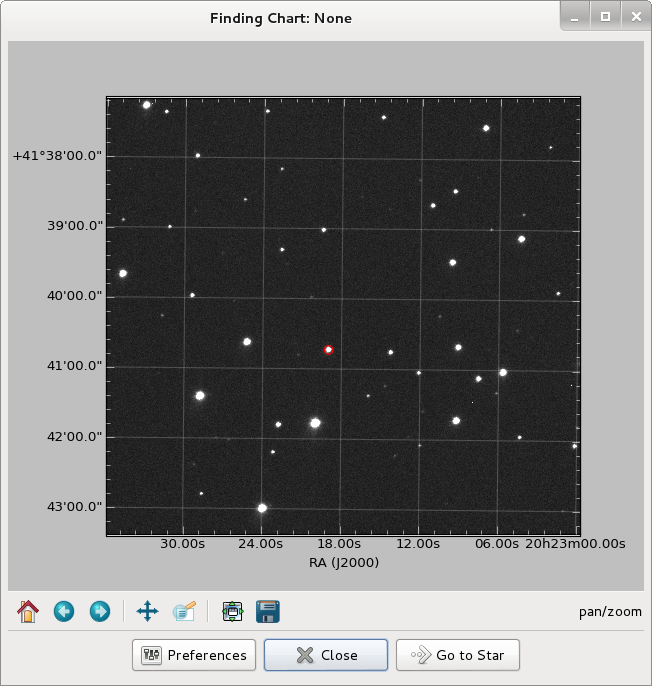
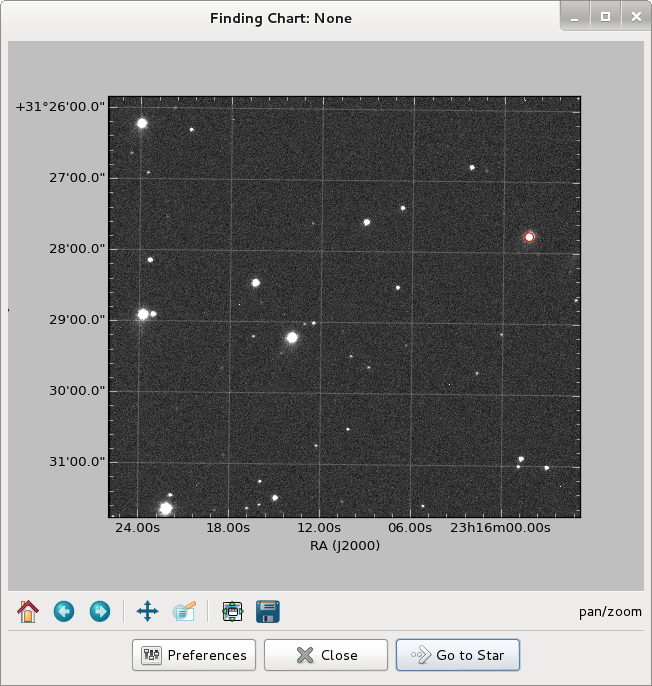
Update screenshots — the quickstart says it's a transit of WASP-10b

diff --git a/Doc/user/quickstart.rst b/Doc/user/quickstart.rst
@@ -225,7 +225,7 @@ by clicking on their headers, as usual.
 .. only:: html
 
     .. thumbnail:: images/gui/main-window.png
-        :width: 626 px
+        :width: 639 px
         :align: center
         :title: The GUI main window
 
@@ -238,7 +238,7 @@ A double-click on any object displays all its data, including the light curve:
 .. only:: html
 
     .. thumbnail:: images/gui/star-details.png
-        :title: The window with all the information of one of the stars
+        :title: The window with all the information of WASP-10
 
 .. only:: latex
 
@@ -274,7 +274,7 @@ zoom, move back and forward, et cetera.
     .. thumbnail:: images/gui/finding-chart.png
         :width: 652 px
         :align: center
-        :title: The GUI finding chart
+        :title: The GUI finding chart, with WASP-10 marked in red
 
 .. only:: latex
 
